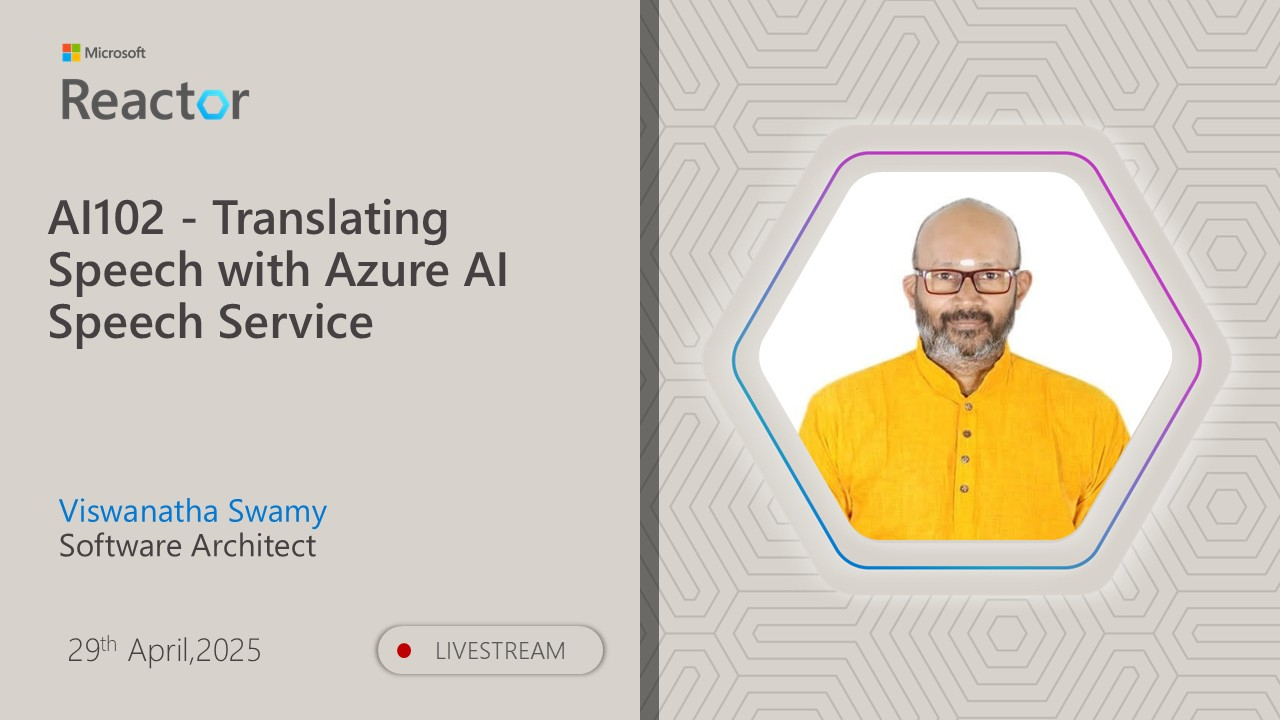
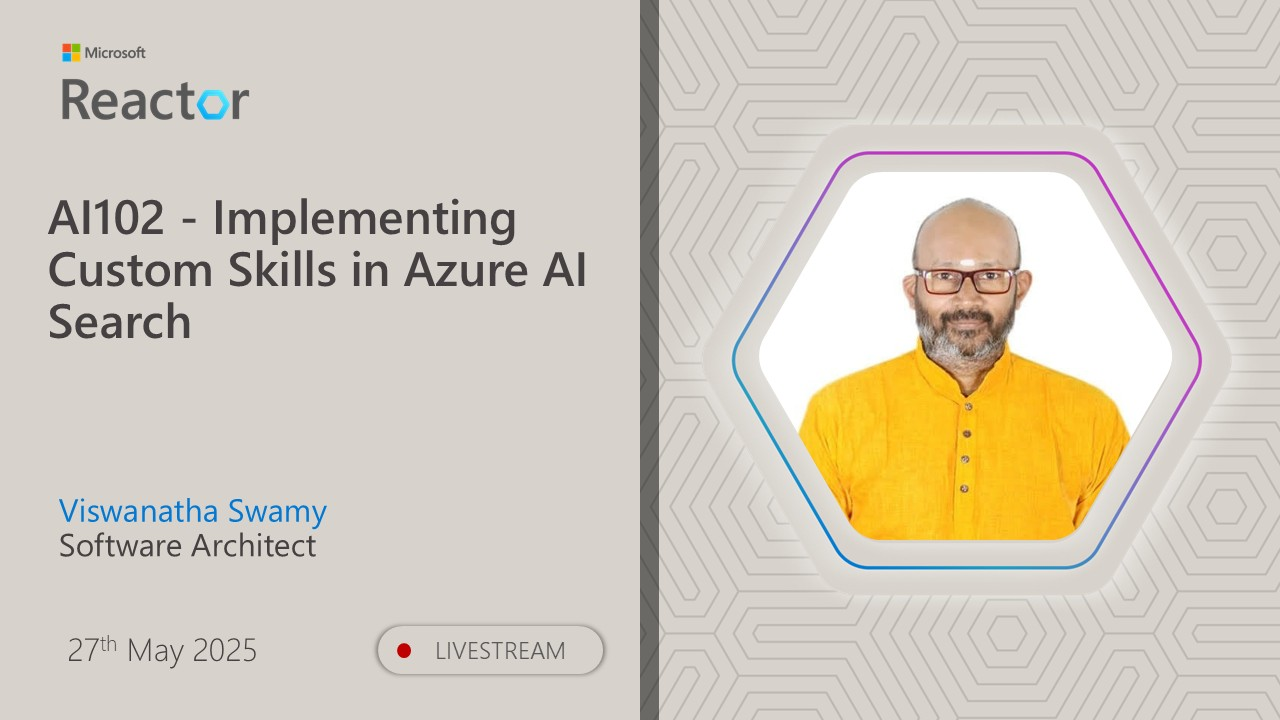
Swamy/26may work (#57)
* Update README.md

* Removed the iages

Changed region(s): [[0.0312, 0.275, 0.4688, 0.3972], [0.0625, 0.4278, 0.3125, 0.4889], [0.0625, 0.8861, 0.2188, 0.9167]]

diff --git a/0527_MSFT_Reactor_AI102_S27/README.md b/0527_MSFT_Reactor_AI102_S27/README.md
@@ -1,10 +1,10 @@
-# AI-102 - Translating Speech with Azure AI Speech Service
+# AI-102 - Implementing Custom Skills in Azure AI Search
 
-## Date Time: 29-Apr-2025 at 03:30 PM IST
+## Date Time: 27-May-2025 at 03:30 PM IST
 
-## Event URL: [https://www.meetup.com/microsoft-reactor-bengaluru/events/307042377](https://www.meetup.com/microsoft-reactor-bengaluru/events/307042377)
+## Event URL: [https://www.meetup.com/microsoft-reactor-bengaluru/events/307082897](https://www.meetup.com/microsoft-reactor-bengaluru/events/307082897)
 
-## YouTube URL: [https://www.youtube.com/watch?v=fyZwhob8klU](https://www.youtube.com/watch?v=fyZwhob8klU)
+## YouTube URL: [https://www.youtube.com/watch?v=AIMWCLCpu4Q](https://www.youtube.com/watch?v=AIMWCLCpu4Q)
 
 ![Viswanatha Swamy P K |150x150](./Documentation/Images/ViswanathaSwamyPK.PNG)
 
